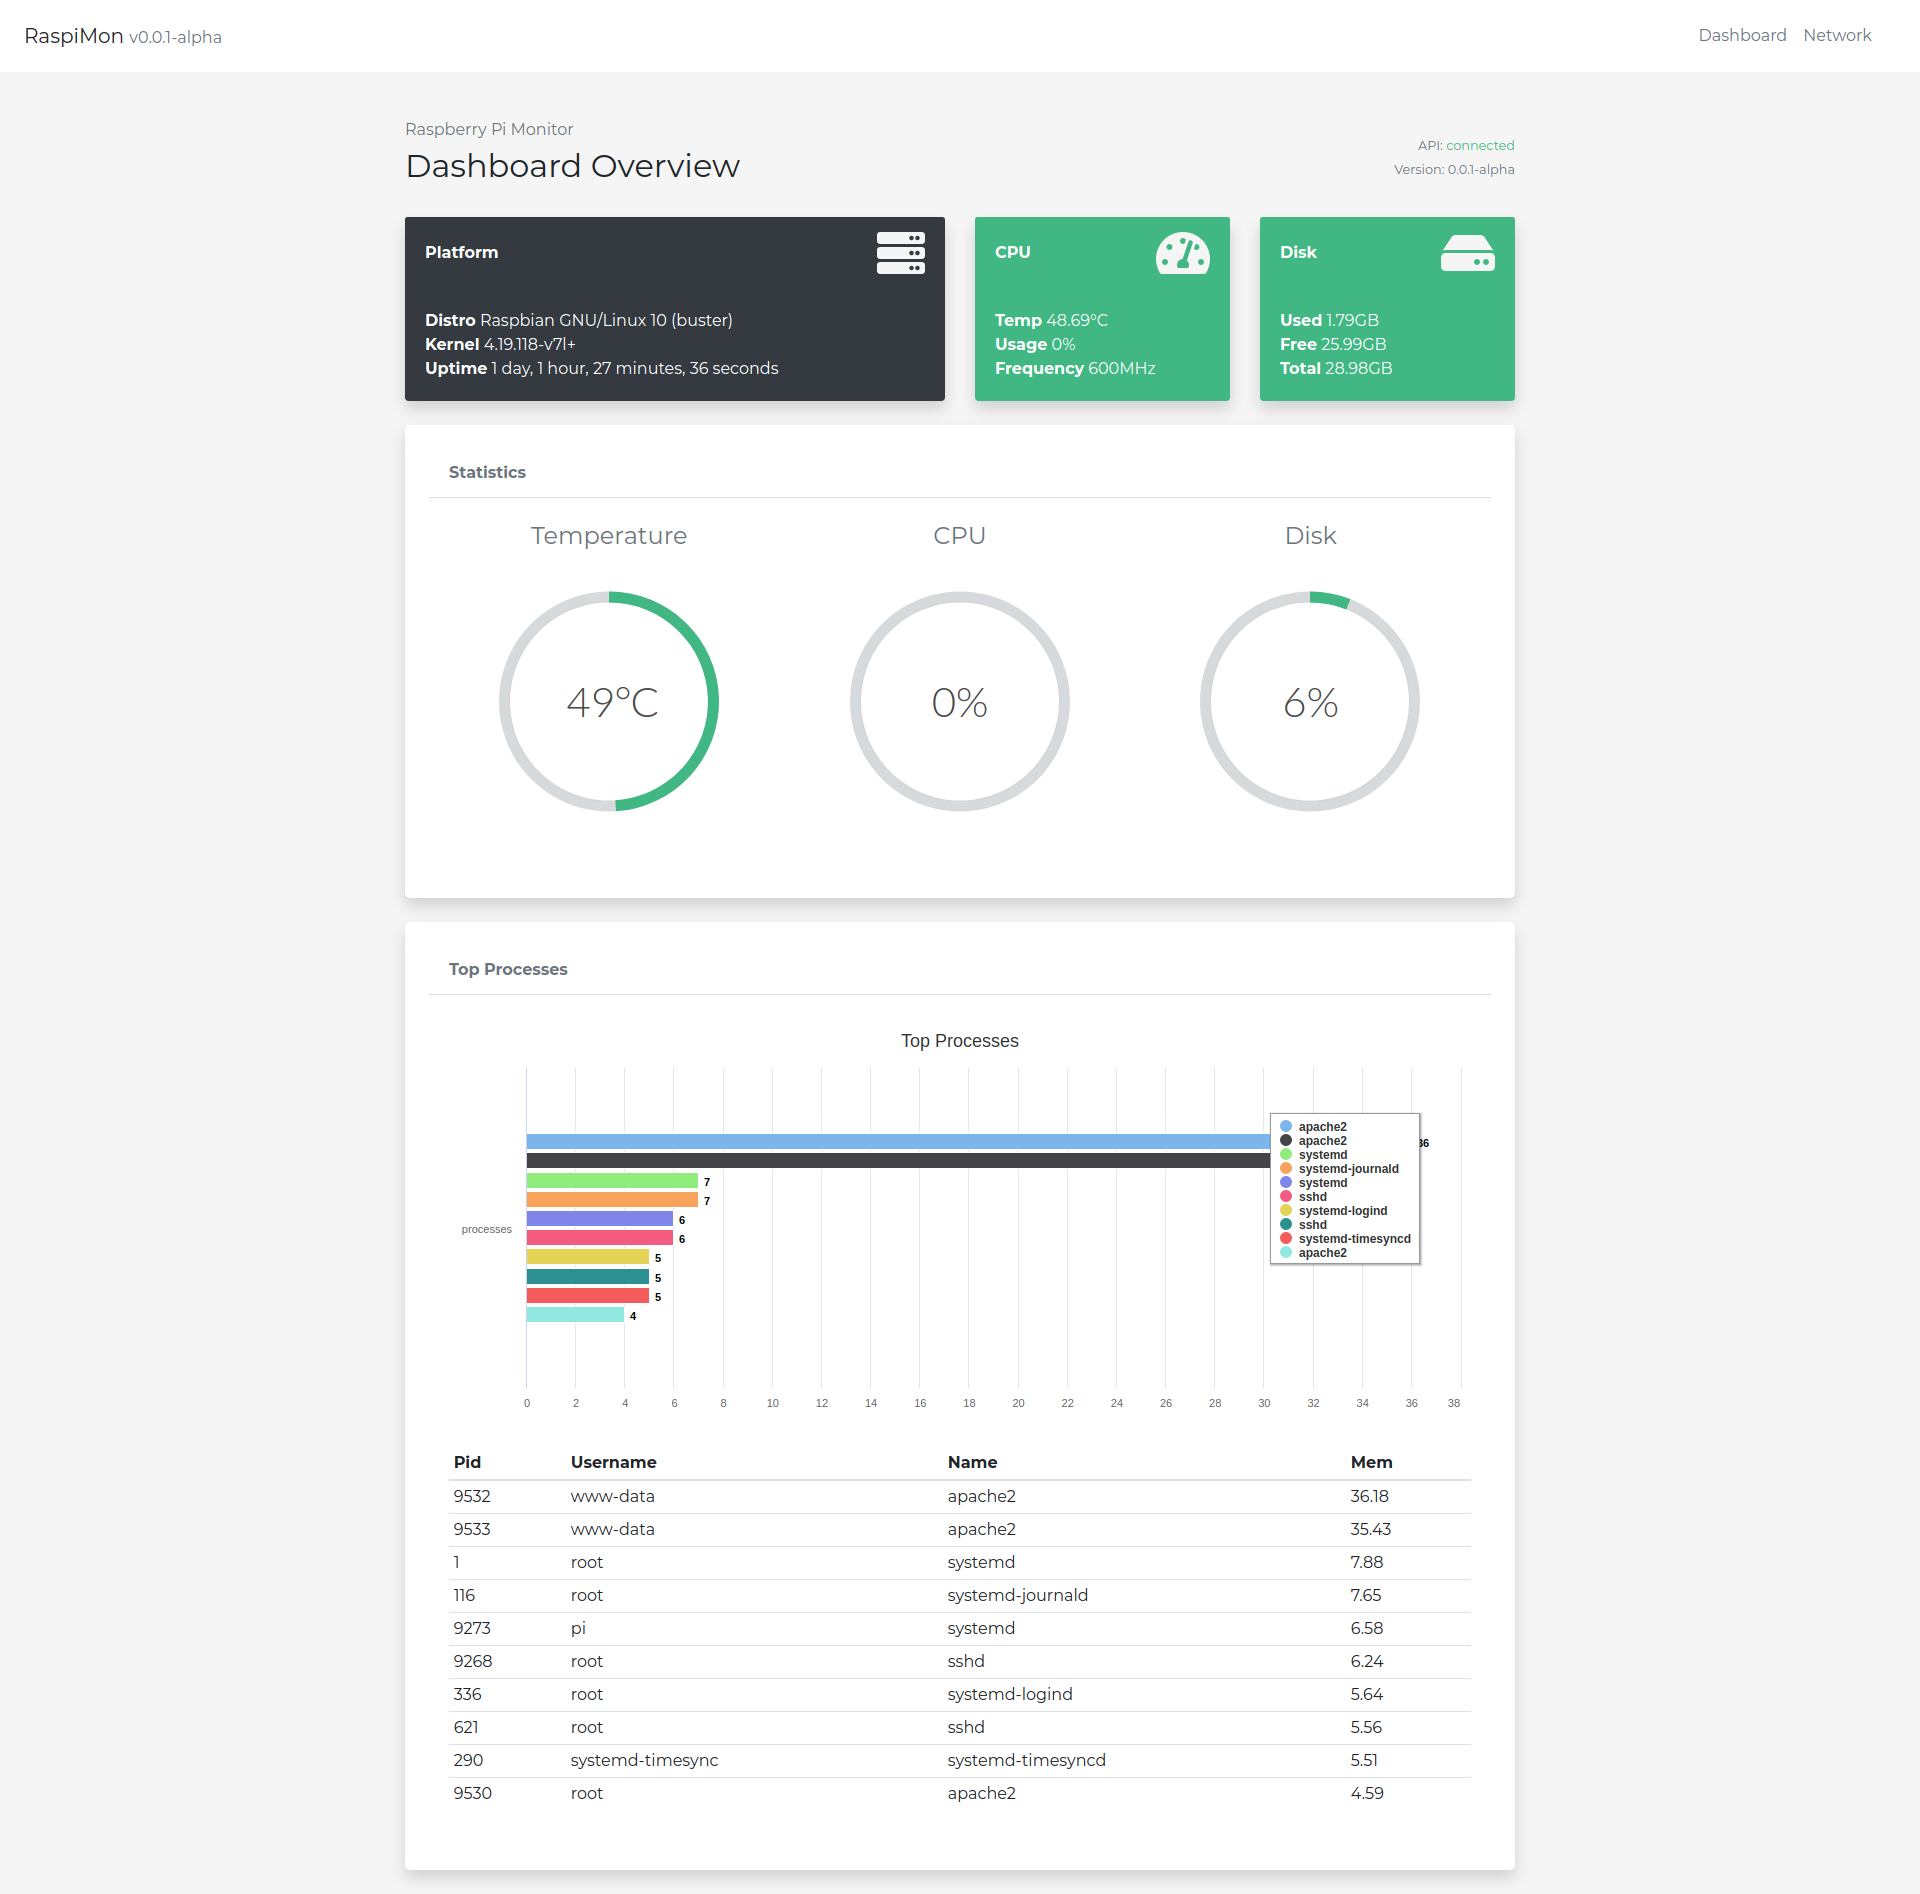
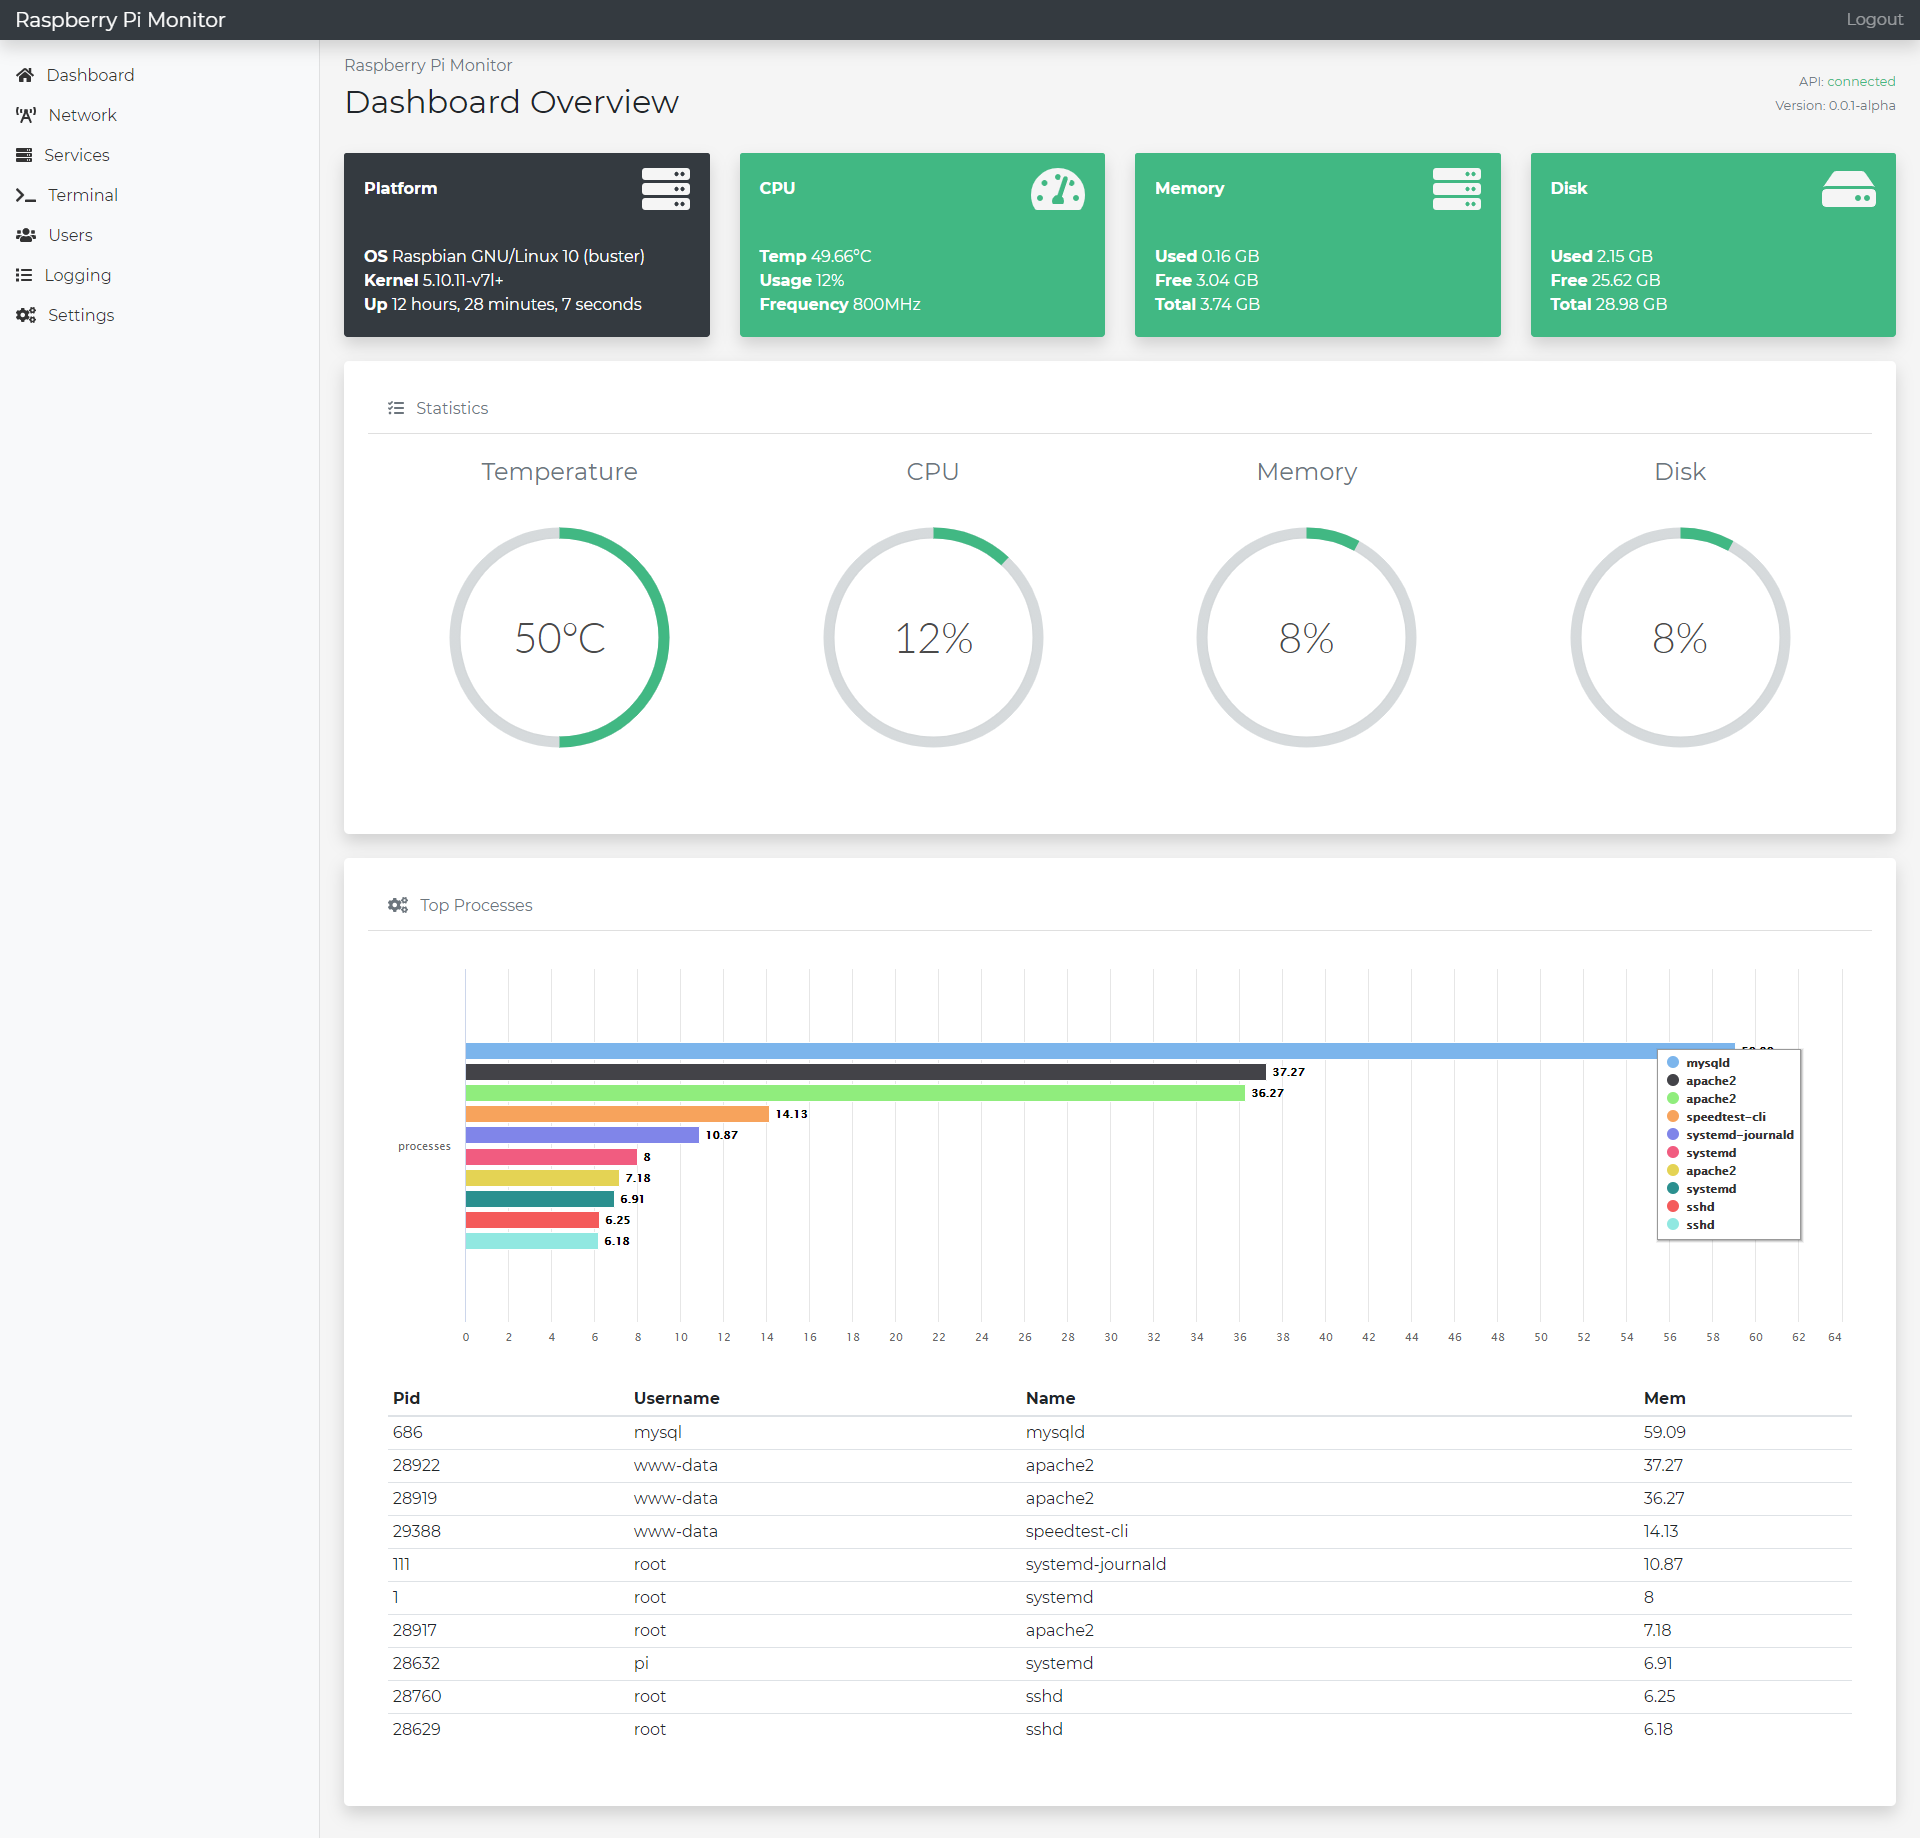
Add new screenshot

diff --git a/src/pages/Dashboard.vue b/src/pages/Dashboard.vue
@@ -11,16 +11,16 @@
 
         <section id="overview" class="my-4">
           <div class="row">
-            <div class="col-12 col-md-12 col-lg-6 mb-4 mb-lg-0">
+            <div class="col-12 col-md-12 col-lg-3 mb-4 mb-lg-0">
               <div class="platform-header">
                 <Stat :color="'bg-dark'" :title="'Platform'">
                   <template v-slot:icon>
                     <i class="fa fa-server card-icon"></i>
                   </template>
                   <template v-slot:content>
-                    <strong>Distro</strong> {{ platform.distro }}<br>
+                    <strong>OS</strong> {{ platform.distro }}<br>
                     <strong>Kernel</strong> {{ platform.kernel }}<br>
-                    <strong>Uptime</strong> {{ platform.uptime }}<br>
+                    <strong>Up</strong> {{ platform.uptime }}<br>
                   </template>
                 </Stat>
               </div>
@@ -39,6 +39,20 @@
                 </Stat>
               </div>
             </div>
+            <div class="col-12 col-md-12 col-lg-3 mb-4 mb-lg-0">
+              <div class="platform-header">
+                <Stat :color="'bg-success'" :title="'Memory'">
+                  <template v-slot:icon>
+                    <i class="fa fa-server card-icon"></i>
+                  </template>
+                  <template v-slot:content>
+                    <strong>Used</strong> {{ mem.used }} GB<br>
+                    <strong>Free</strong> {{ mem.free }} GB<br>
+                    <strong>Total</strong> {{ mem.total }} GB<br>
+                  </template>
+                </Stat>
+              </div>
+            </div>
             <div class="col-12 col-md-6 col-lg-3">
               <div class="disk-header">
                 <Stat :color="'bg-success'" :title="'Disk'">
@@ -46,9 +60,9 @@
                     <i class="fa fa-hdd card-icon btt-1"></i>
                   </template>
                   <template v-slot:content>
-                    <strong>Used</strong> {{ disk.used }}GB<br>
-                    <strong>Free</strong> {{ disk.free }}GB<br>
-                    <strong>Total</strong> {{ disk.total }}GB<br>
+                    <strong>Used</strong> {{ disk.used }} GB<br>
+                    <strong>Free</strong> {{ disk.free }} GB<br>
+                    <strong>Total</strong> {{ disk.total }} GB<br>
                   </template>
                 </Stat>
               </div>
@@ -63,13 +77,16 @@
             </div>
             <div class="card-body">
               <div class="row">
-                <div class="col-12 col-md-6 col-lg-4 ml-auto">
+                <div class="col-12 col-md-6 col-lg-3 ml-auto">
                   <Gauge :title="'Temperature'" :id="'temp'" :metric="cpu.temp" :format="'{y}°C'"></Gauge>
                 </div>
-                <div class="col-12 col-md-6 col-lg-4 ml-auto">
+                <div class="col-12 col-md-6 col-lg-3 ml-auto">
                   <Gauge :title="'CPU'" :id="'cpu'" :metric="cpu.usage" :format="'{y}%'"></Gauge>
                 </div>
-                <div class="col-12 col-md-12 col-lg-4 ml-auto">
+                <div class="col-12 col-md-6 col-lg-3 ml-auto">
+                  <Gauge :title="'Memory'" :id="'mem'" :metric="mem_percent" :format="'{y}%'"></Gauge>
+                </div>
+                <div class="col-12 col-md-6 col-lg-3 ml-auto">
                   <Gauge :title="'Disk'" :id="'disk'" :metric="disk_percent" :format="'{y}%'"></Gauge>
                 </div>
               </div>
@@ -103,6 +120,8 @@
 </template>
 
 <script>
+import {liveCpu} from "@/services/live-data";
+
 import Stat from '@/components/common/Stat';
 import Gauge from '@/components/charts/Gauge';
 import Graph from '@/components/charts/Graph';
@@ -124,11 +143,17 @@ export default {
         freq: 0,
         usage: 0
       },
+      mem: {
+        used: 0,
+        free: 0,
+        total: 0,
+      },
       disk: {
         used: 0,
         free: 0,
         total: 0,
       },
+      mem_percent: 0,
       disk_percent: 0,
       fan: {
         status: '',
@@ -156,7 +181,7 @@ export default {
   methods: {
     getSystem() {
       this.$api.request('/system/').then(response => {
-        ['platform', 'cpu', 'disk'].forEach(key => {
+        ['platform', 'cpu', 'mem', 'disk'].forEach(key => {
           if (typeof this[key] === 'undefined' || typeof response.data[key] === 'undefined') {
             throw new Error('Undefined metric in API response.');
           }
@@ -164,9 +189,11 @@ export default {
             this[key][result] = response.data[key][result];
           });
         });
+        this.mem_percent = response.data.mem.percent;
         this.disk_percent = response.data.disk.percent;
         this.processes = response.data.processes;
         this.formatProcessesDataForGraphs();
+        // this.updateDataRegularly(5000);
         this.loaded = true;
       }).catch(error => {
         this.setError(error.message);
@@ -181,6 +208,14 @@ export default {
         });
       });
       this.processesGraphData = response;
+    },
+    updateDataRegularly(interval) {
+      setInterval(() => {
+        liveCpu.get('temp').then(temp => {
+          this.cpu.temp = temp;
+          this.$bus.$emit('update-gauge-temp', {value: temp, id: 'temp'})
+        });
+      }, interval);
     },
     setError(message) {
       this.loaded = false;

diff --git a/src/services/live-data.js b/src/services/live-data.js
@@ -6,14 +6,14 @@ const liveCpu = {};
 /**
  * Fetch live CPU statistics.
  *
- * @param fields
+ * @param field
  * @returns {Promise<number>}
  */
-liveCpu.get = async (...fields) => {
+liveCpu.get = async (field) => {
     let response = await caller(url + '/system/cpu', {
-        headers: { 'X-Fields': fields.join(', ') }
+        headers: { 'X-Fields': field }
     });
-    return response.data.temp;
+    return response.data[field];
 }
 
 /** Live disk data service **/
@@ -22,14 +22,14 @@ const liveDisk = {};
 /**
  * Fetch live disk statistics.
  *
- * @param fields
+ * @param field
  * @returns {Promise<number>}
  */
-liveDisk.get = async (...fields) => {
+liveDisk.get = async (field) => {
     let response = await caller(url + '/system/disk', {
-        headers: { 'X-Fields': fields.join(', ') }
+        headers: { 'X-Fields': field }
     });
-    return response.data.temp;
+    return response.data[field];
 }
 
 export {
